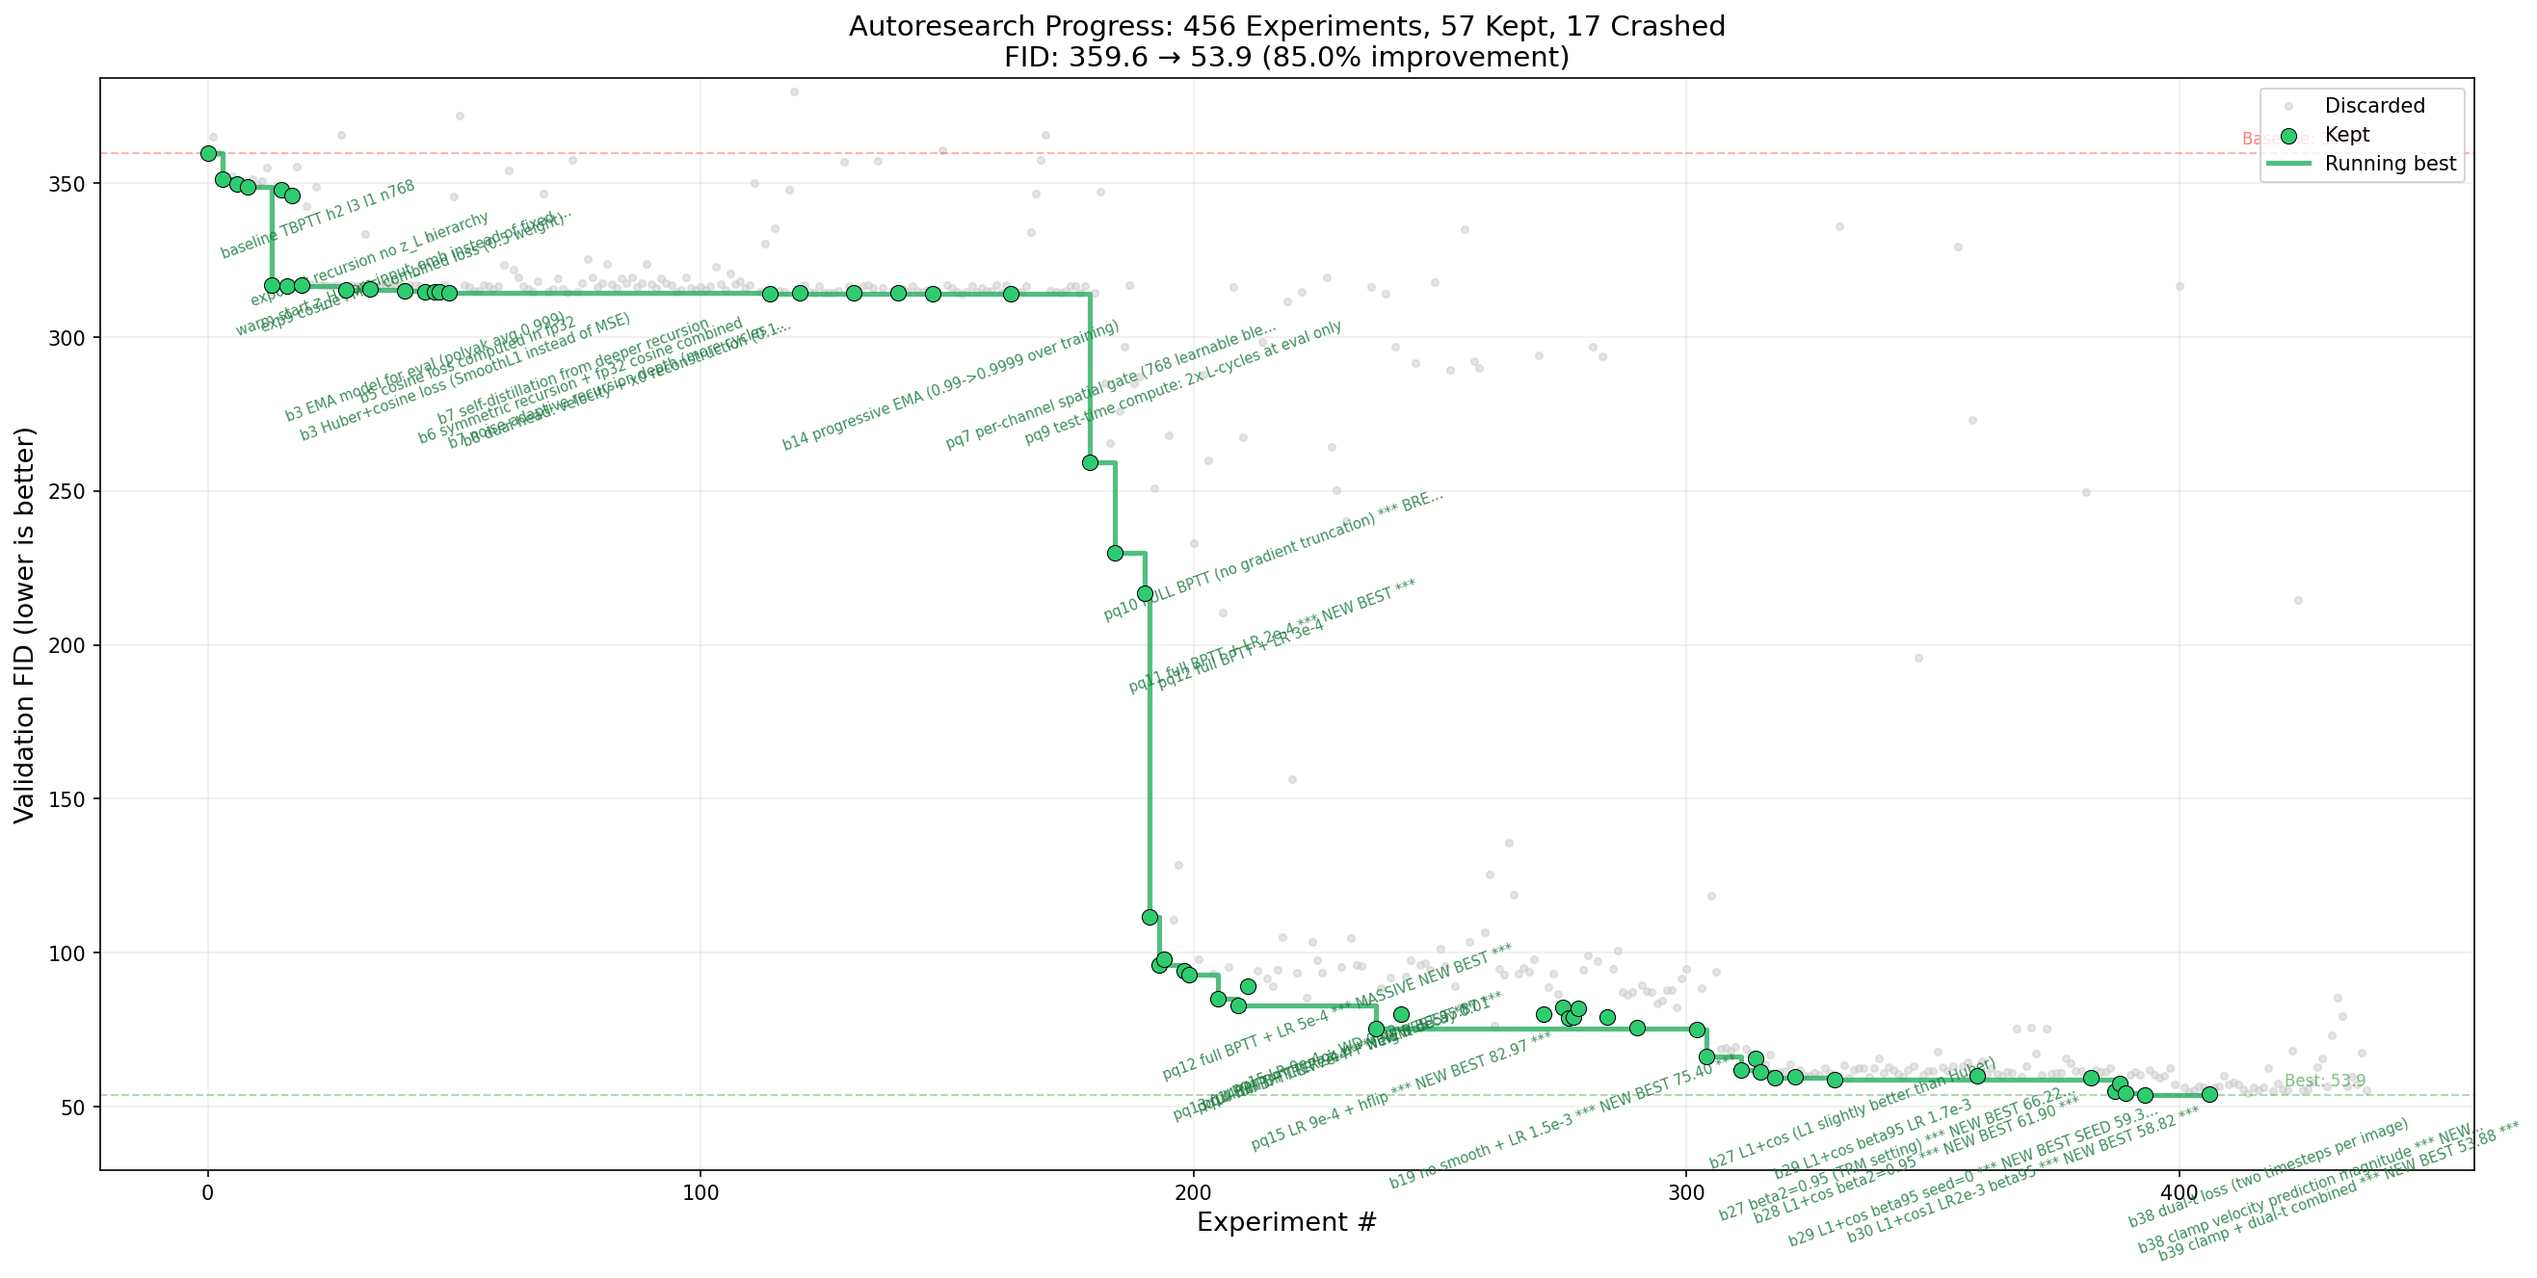
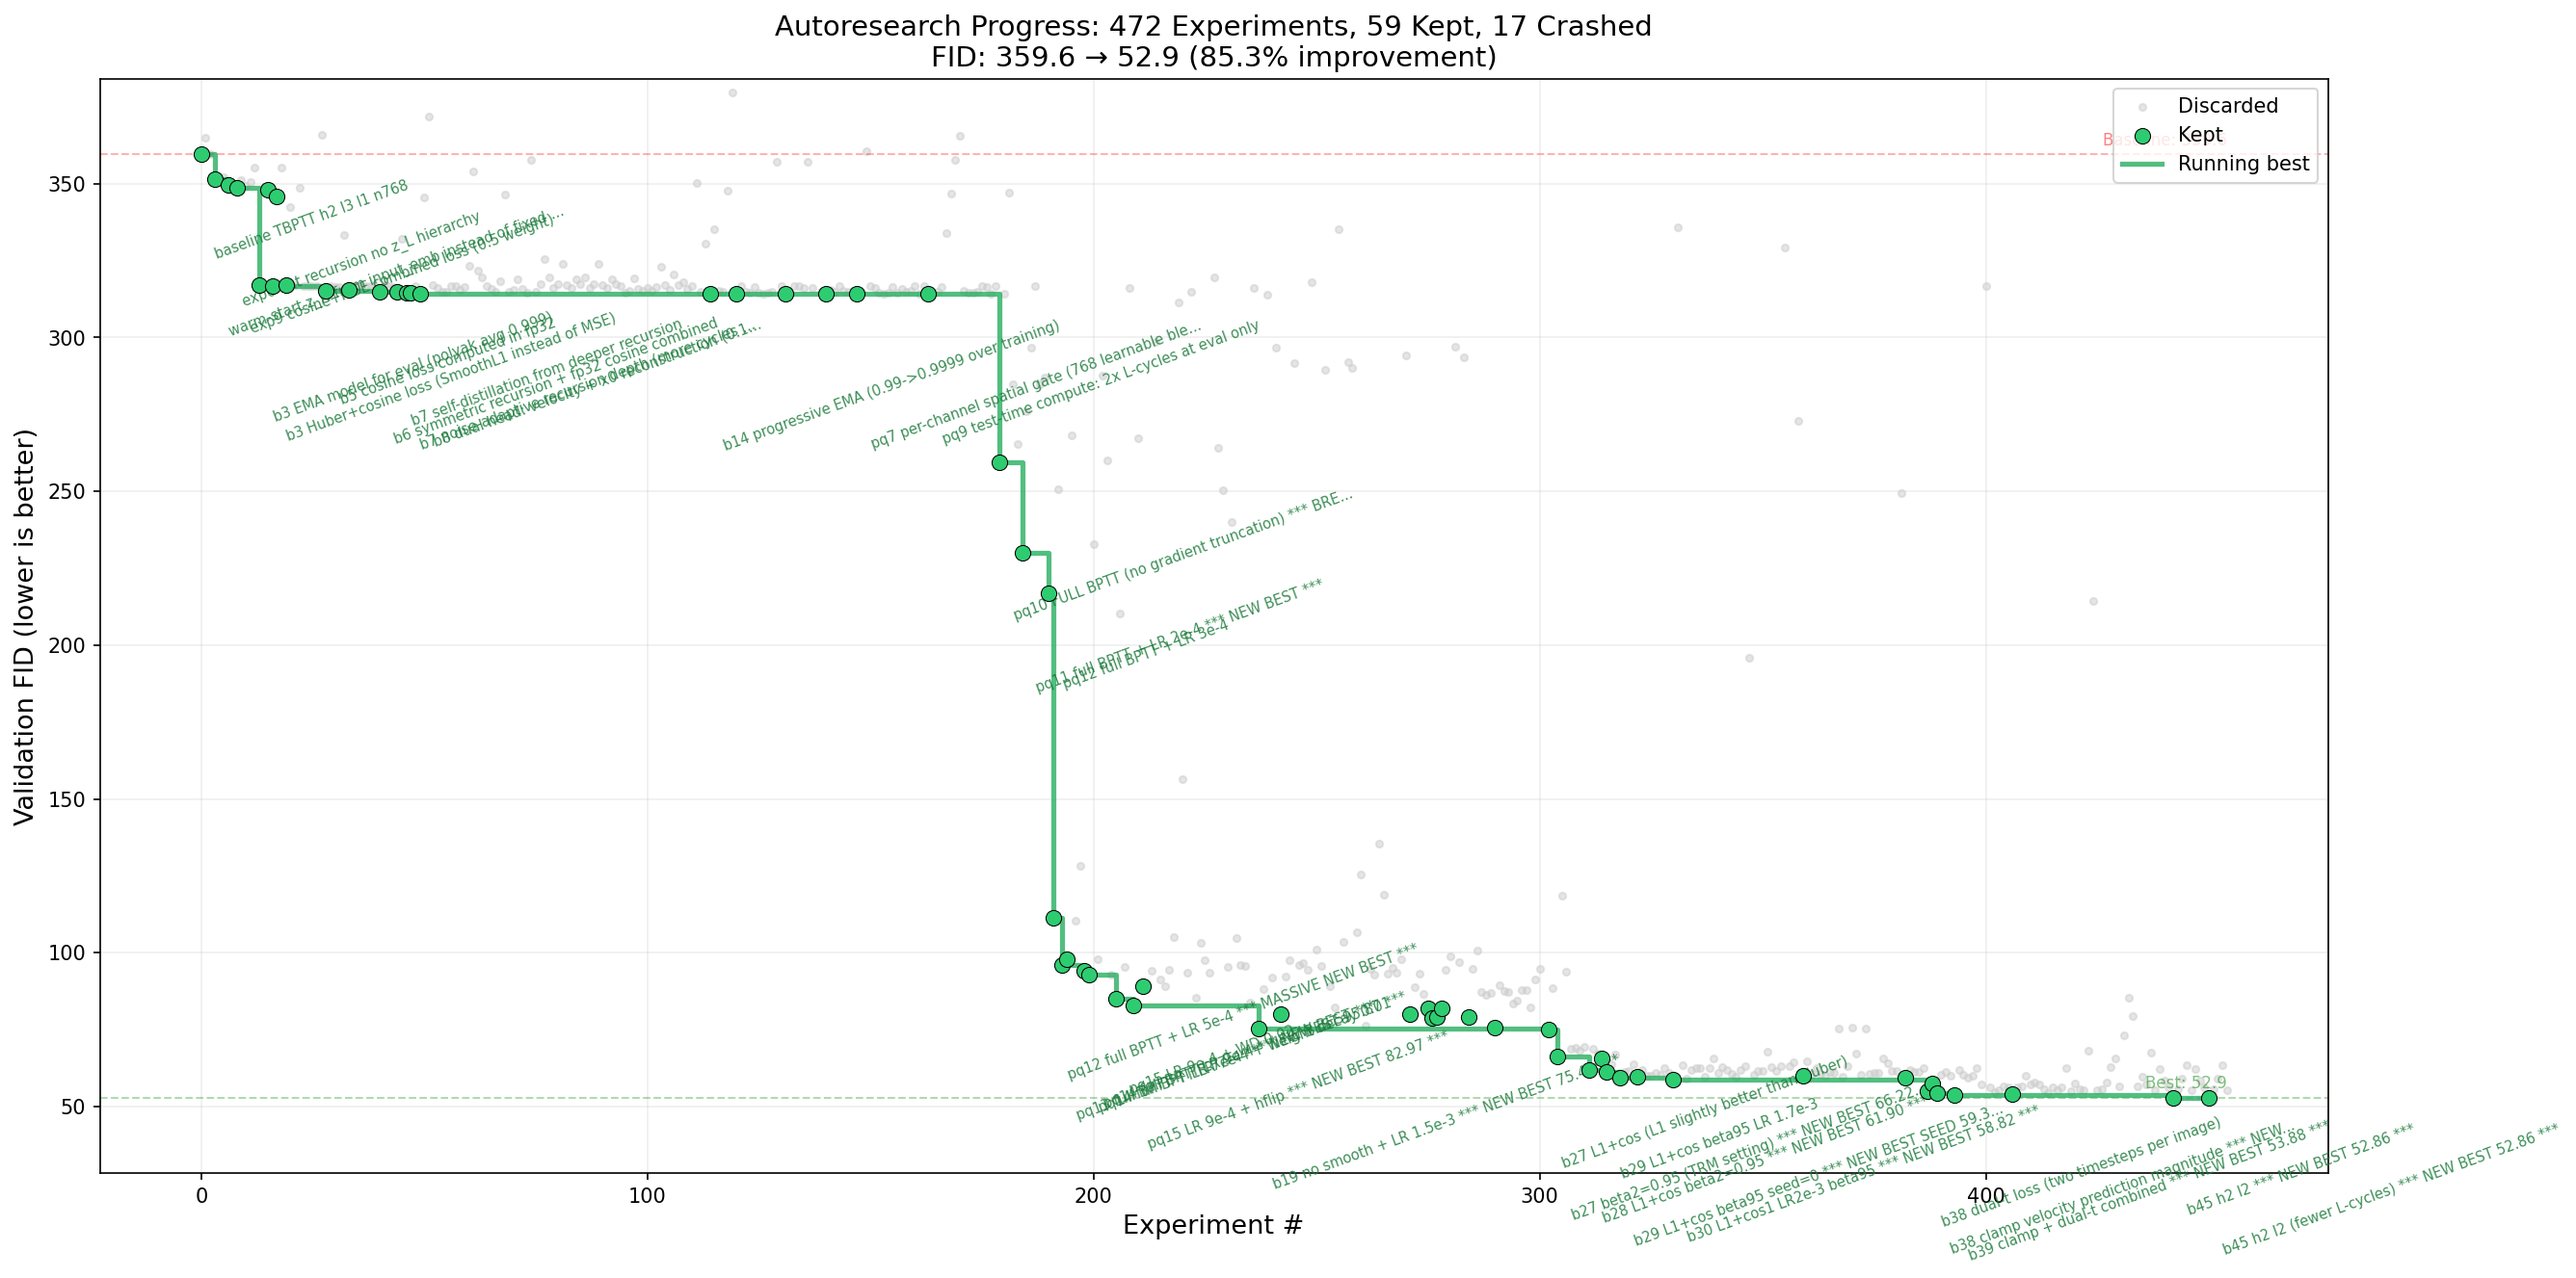
advance+simplification: l_cycles=2 (fewer cycles, faster) → FID 52.86!!! 464 experiments, 85.3%.

diff --git a/train.py b/train.py
@@ -50,7 +50,7 @@ solver_group.add_argument("--solver", type=str, default="tbptt",
 model_group = parser.add_argument_group("model architecture")
 model_group.add_argument("--h-cycles", type=int, default=2,
     help="Number of outer (H-level) recursive cycles (TRM-style)")
-model_group.add_argument("--l-cycles", type=int, default=3,
+model_group.add_argument("--l-cycles", type=int, default=2,
     help="Number of inner (L-level) recursive cycles per H-cycle")
 model_group.add_argument("--l-layers", type=int, default=1,
     help="Number of transformer layers in the shared L-level block")

diff --git a/ideas.md b/ideas.md
@@ -785,3 +785,35 @@ Analysis:
 Conclusion:
 Next Ideas to Try:
 ---
+
+---
+idea_id: laplace_noise_schedule
+Description: Replace uniform timestep sampling t~U[0,1] with a Laplace (double-exponential) distribution centered at t=0.5. The Laplace distribution puts more probability mass near t=0.5 (medium noise) and less at the extremes (t~0 pure noise, t~1 clean). This was shown in "Improved Noise Schedule for Diffusion Training" (ICCV 2025) to give 25.9% FID improvement over uniform sampling. Implementation: sample from Laplace(loc=0.5, scale=0.2), clamp to [0,1]. Very simple change — just one line of code.
+Confidence: 7
+Why: Published result from ICCV 2025 showing 25.9% FID improvement. The intuition is that medium-noise timesteps (t~0.5) are the most informative for learning — at t~0 the input is pure noise (hard to learn from), at t~1 it's nearly clean (easy, nothing to learn). Laplace focuses training on the "goldilocks zone" where the model can make meaningful progress. This is backed by peer-reviewed results and is trivial to implement.
+Time of idea generation: 2026-03-21 12:00
+Status: Not Implemented
+HPPs:
+Time of run start and end:
+Results vs. Baseline:
+wandb link:
+Analysis:
+Conclusion:
+Next Ideas to Try:
+---
+
+---
+idea_id: skip_connection_dit
+Description: Add a long skip connection from the input embedding directly to the output head, bypassing the entire recursive structure. This is inspired by "Skip-DiT" (ICCV 2025) which showed that adding skip connections to DiT achieves 4x faster convergence. Implementation: out = final_proj(z_H_processed) + 0.1 * final_proj(input_emb). The skip provides a "shortcut" that lets easy parts of the velocity be predicted directly while the recursion handles the hard parts.
+Confidence: 5
+Why: Skip-DiT achieved FID parity with DiT in 1.6M steps vs 7M — a 4x speedup. Our recursive model already has input injection at each cycle, but no DIRECT skip from input to output. Adding one gives the model a "path of least resistance" for easy velocity components. This could improve convergence speed, which matters in our 1-hour budget. Risk: the skip might dominate and the recursion becomes unused.
+Time of idea generation: 2026-03-21 12:00
+Status: Not Implemented
+HPPs:
+Time of run start and end:
+Results vs. Baseline:
+wandb link:
+Analysis:
+Conclusion:
+Next Ideas to Try:
+---
